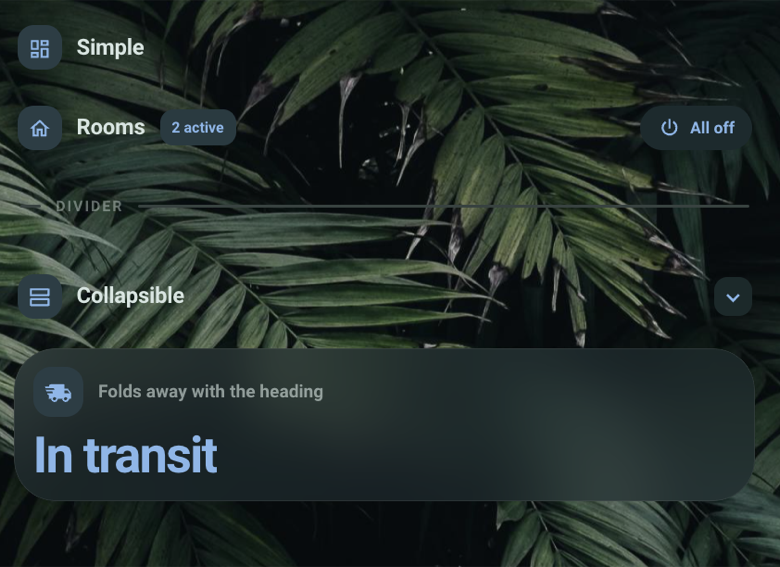
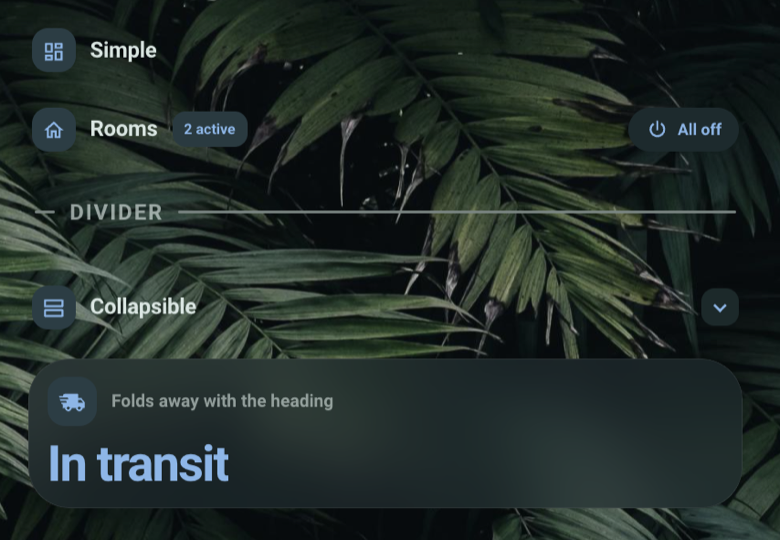
Docs: reshoot the four screenshots
Retaken after the divider fixes and the switch to 24-hour clocks, so the
images now show what the code does: a readable divider at title size,
and an hours shape with two digits instead of one.

The joins are invisible this time. The reason is that the captures were
cut at a card's edge, so a seam lands in the thin strip between two cards
instead of in the middle of the wallpaper, where the first attempt left a
bright line at every seam. Noted in the handover.

cards-overview.png stays as it is, on the author's call — it belongs to a
later release.

diff --git a/docs/HANDOVER.md b/docs/HANDOVER.md
@@ -183,15 +183,18 @@ status card's toggle. It can be deleted.
    its variants, with the frontend switched to English and the entity states
    faked so nothing reads "all off".
 
-   Three of the four are stitched from two or three captures, because a column
-   of five clocks does not fit one viewport. `clock-card.png` and
-   `room-card.png` join invisibly; **`status-card.png` has a faint bright line
-   at each of its two seams**, where one capture's bottom edge meets the next
-   one's top and the wallpaper does not line up. To avoid that, zoom the
-   browser out until the whole column fits and take a single capture.
+   Three of the four are stitched from two captures, because a column of five
+   clocks does not fit one viewport. All the joins are invisible, and the reason
+   is worth remembering: the captures were cut **at a card's edge**, so the seam
+   falls in the thin strip between two cards rather than in the middle of the
+   wallpaper. The first attempt cut mid-background and left a visible bright line
+   at every seam. `dev/` holds no tool for this — the stitching was done with a
+   throwaway dependency-free PNG script, since neither Pillow nor ImageMagick is
+   installed and installing one for four images was not worth it.
 
-   Still on the old 35-card view: **`cards-overview.png`**. It also predates the
-   light card's duplicate-percentage fix, so it shows the bug.
+   Deliberately left alone: **`cards-overview.png`**. It still shows the old
+   35-card view and predates the light card's duplicate-percentage fix. The
+   author's call — it belongs to a later release.
 3. **Version bump to 2.2.0** at release: `package.json` and `CARD_VERSION` in
    `src/const.ts`. The card counts in the docs are already right.
 4. **Two known cosmetic points**, both raised and deliberately left:
